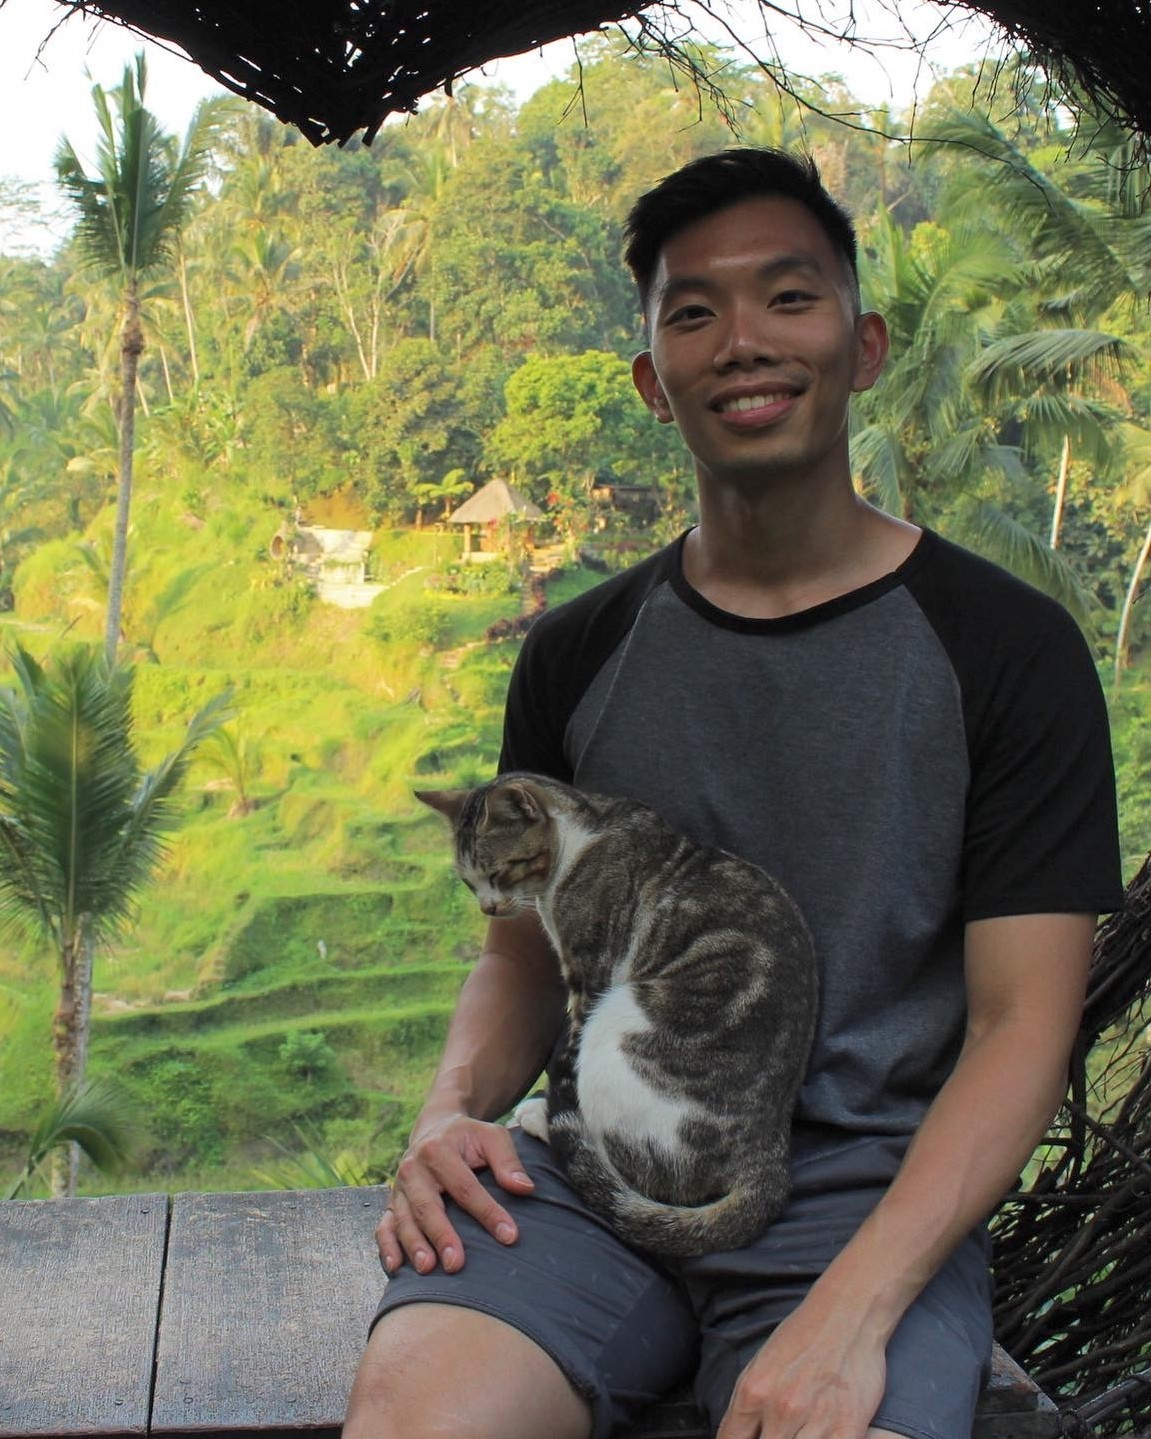
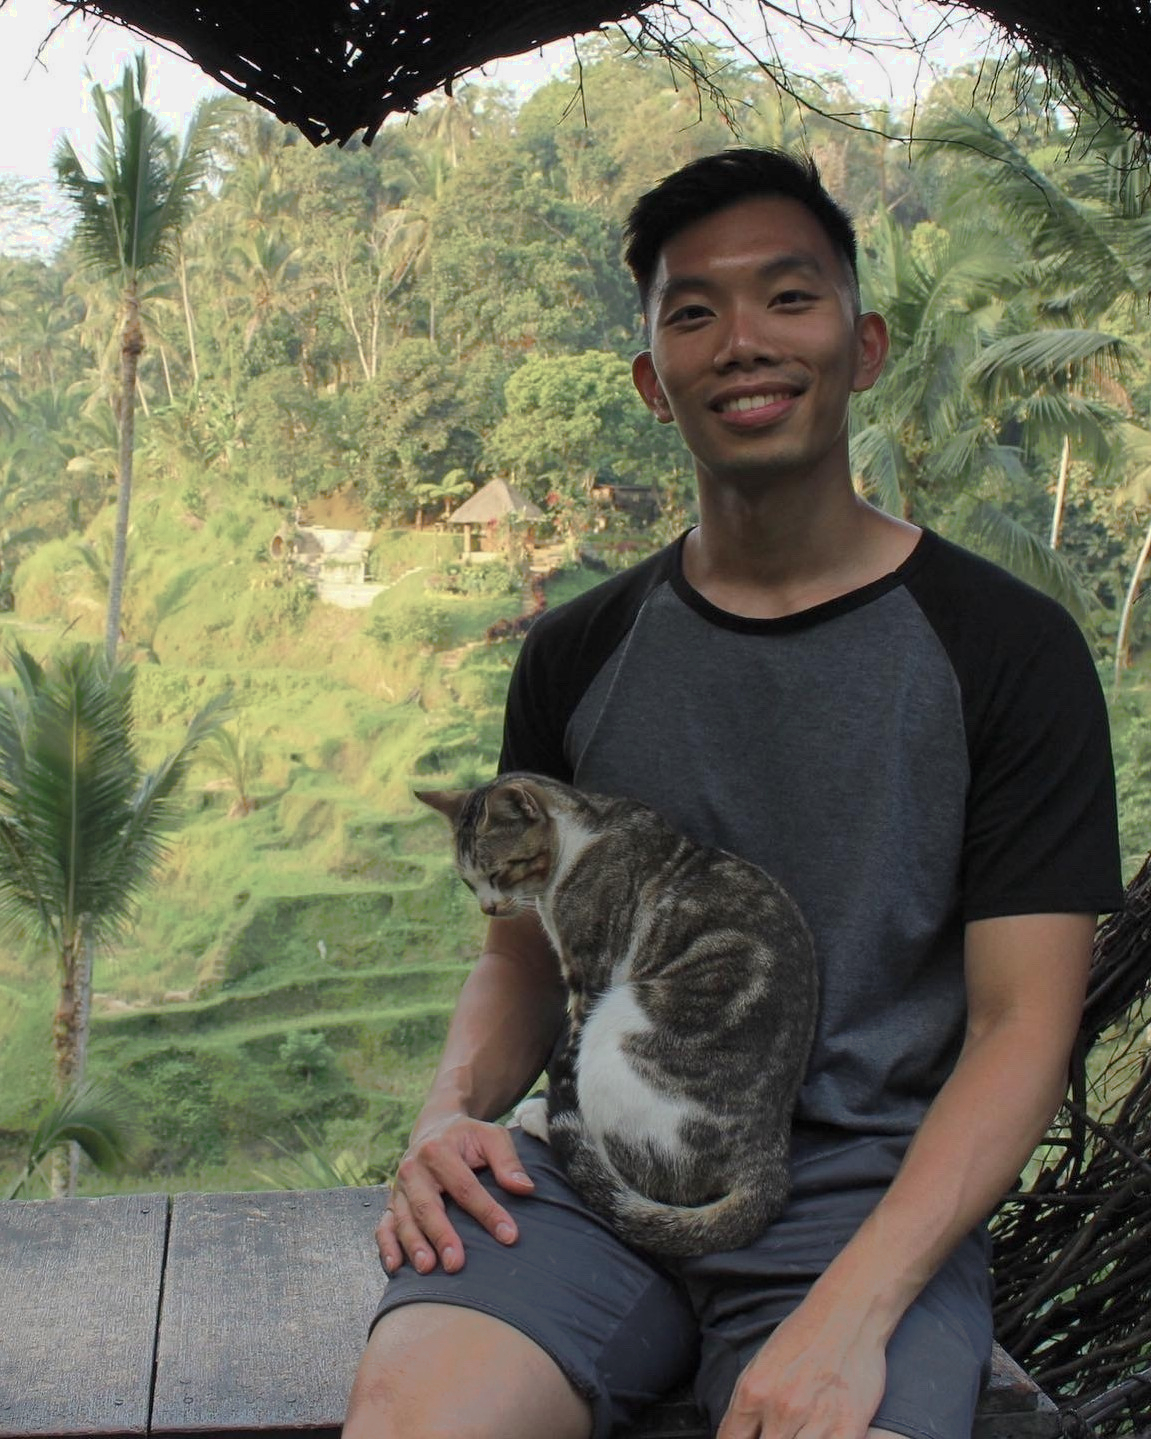
margin edited

diff --git a/index.html b/index.html
@@ -6,7 +6,7 @@ header:
 ---
 
 <div>
-<div style="float: left"; margin-right: 20px;">
+<div style="display: flex; gap: 20px;">
 <img src="https://willierushrush.github.io/images/le-chat.JPEG" height= "480" width="384" />
 </div>
 <div>
